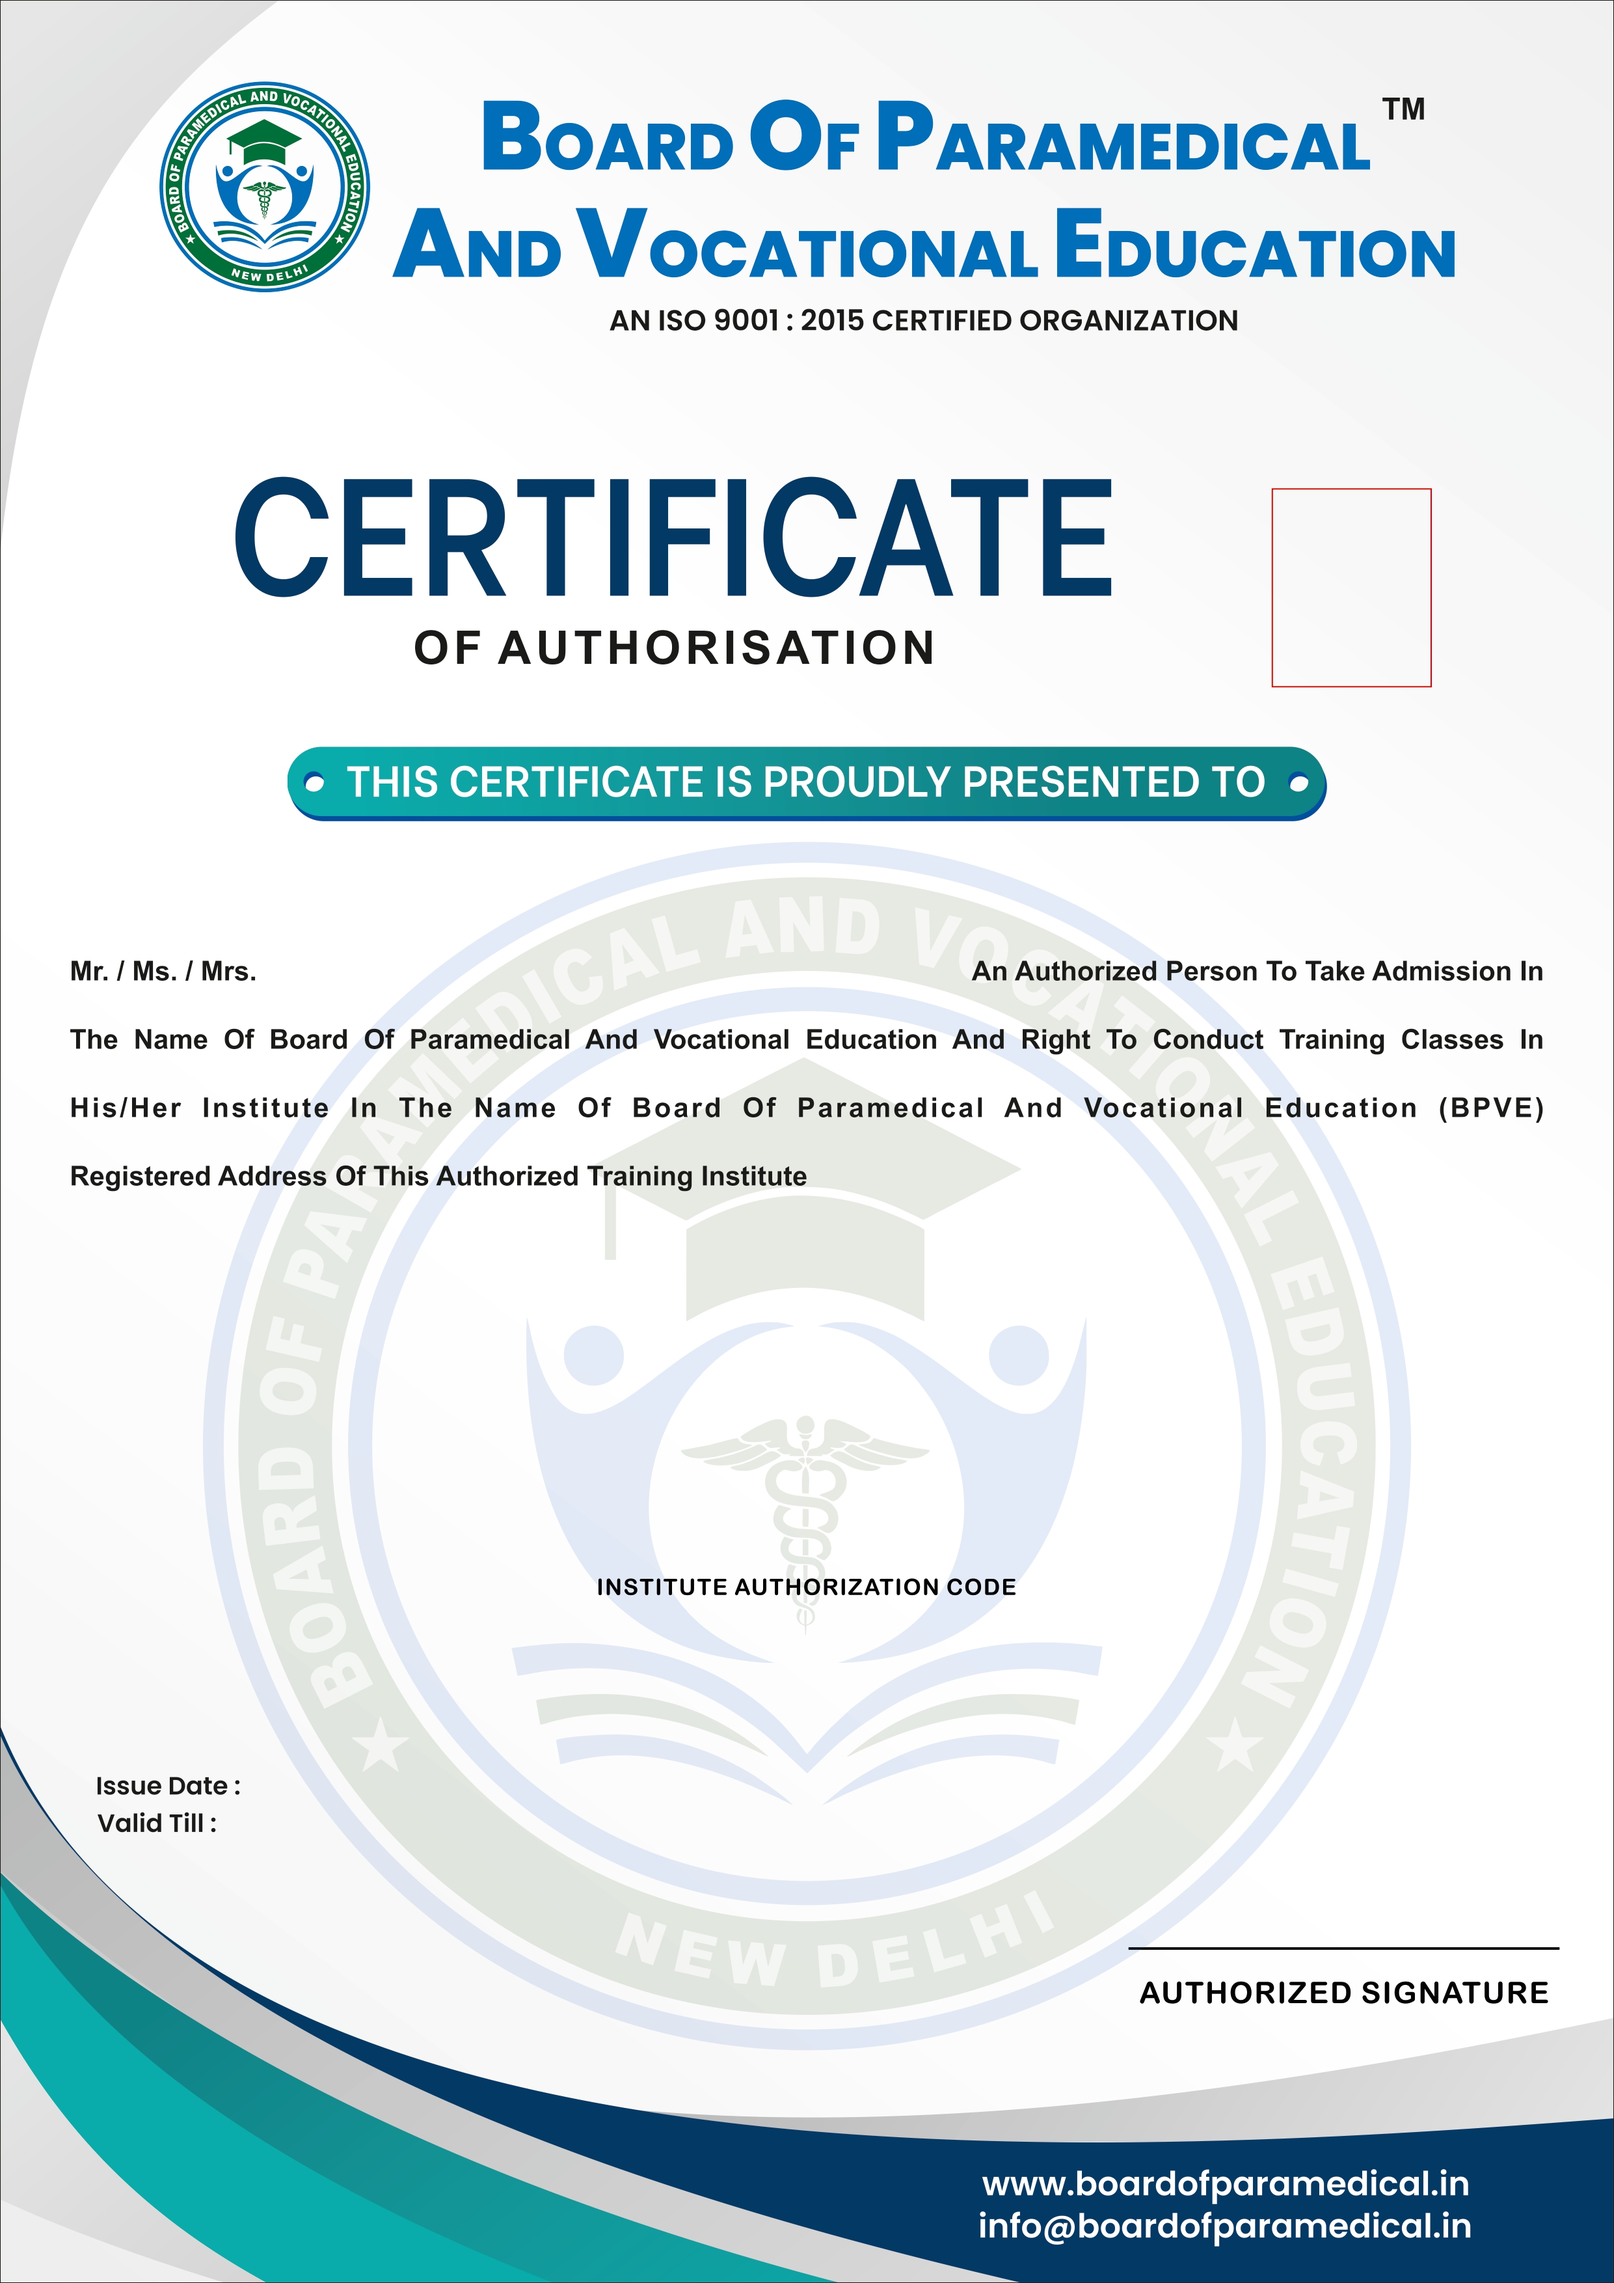
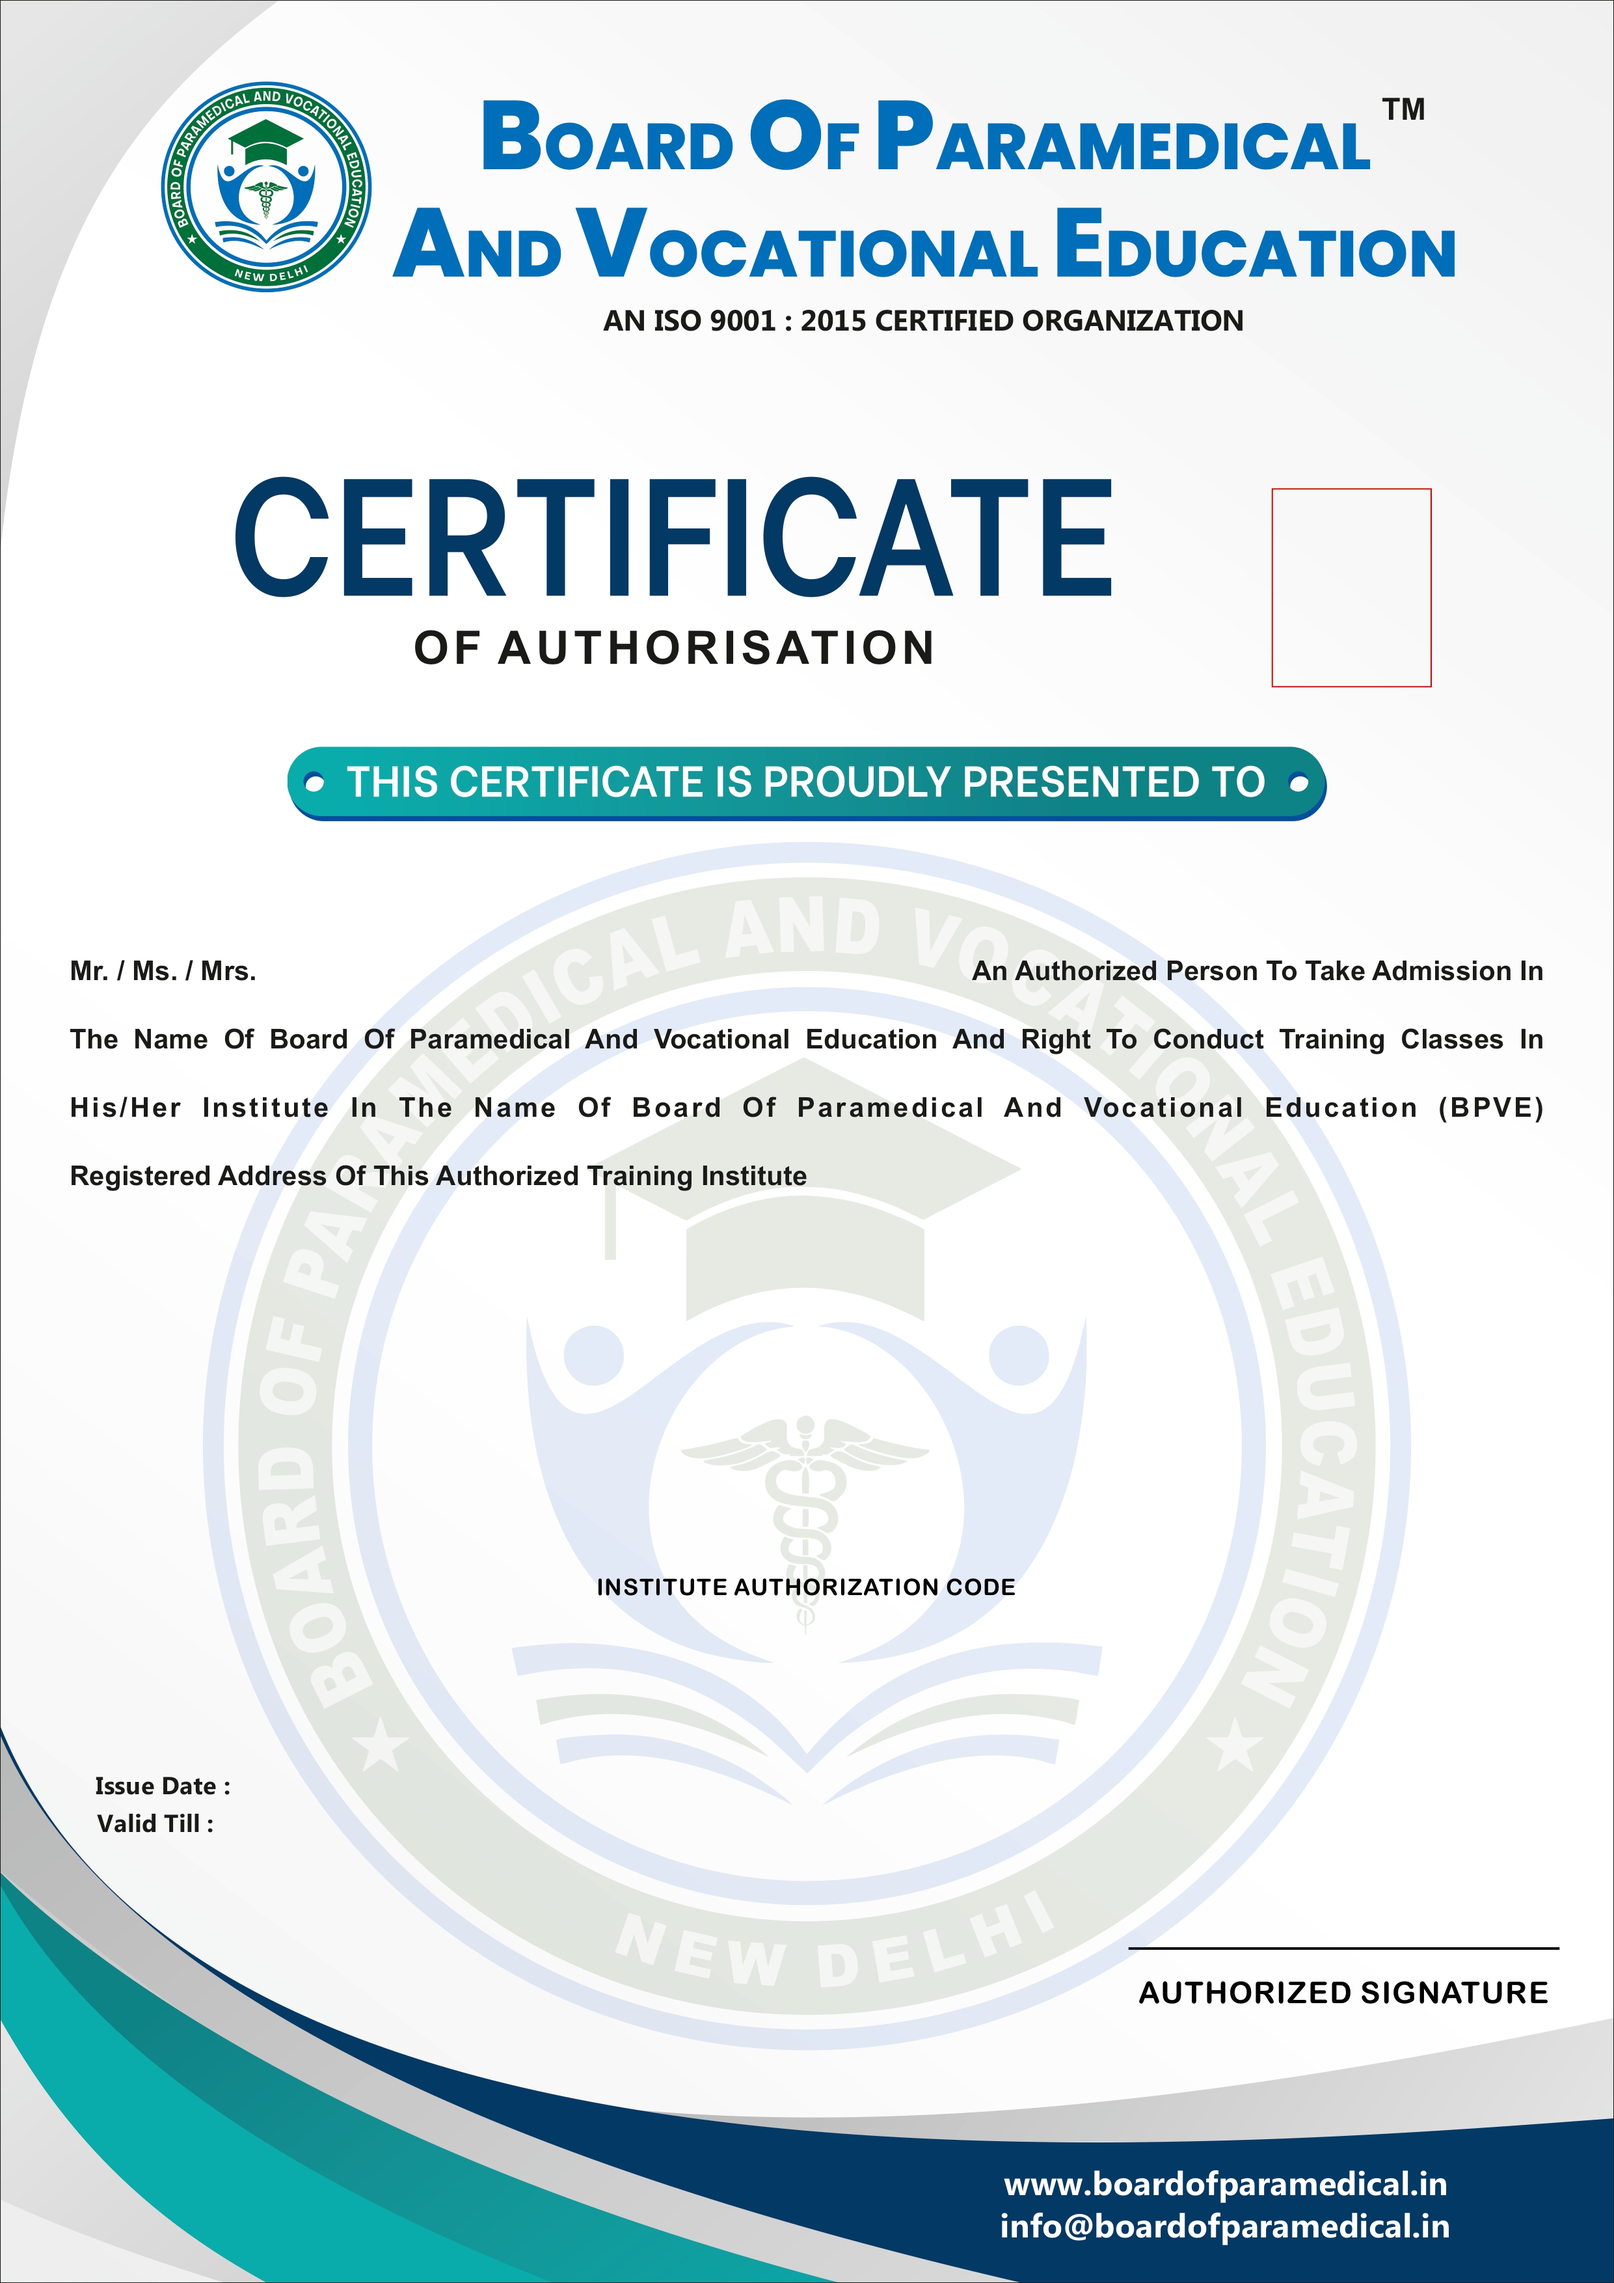
update board

diff --git a/assets/formats/boardofpara/certificate.php b/assets/formats/boardofpara/certificate.php
@@ -21,7 +21,7 @@
         .position-absolute {
             position: absolute;
             font-weight: bold;
-
+            border: 1px solid red;
         }
 
         .w-100 {
@@ -84,31 +84,31 @@
     </div>
 
 
-    <p class="position-absolute" style="top:-0.2%;left:12%;">{certiticate_id}</p>
+    <p class="position-absolute" style="top:-0.2%;left:12%;width:200px">{serial_no}</p>
     <p class="position-absolute" style="bottom:5%;left:19%;font-size:13px">{createdOn}</p>
-    <p class="position-absolute" style="bottom:3.2%;left:15%;font-size:13px">Place</p>
+    <p class="position-absolute" style="bottom:3.2%;left:15%;font-size:13px">New Delhi</p>
 
-    <p class="position-absolute text-center " style="width:230px;left:23%;top:42.2%;">{roll_no}</p>
+    <p class="position-absolute text-center " style="width:190px;left:23%;top:42.2%;">{roll_no}</p>
     <p class="position-absolute text-center " style="width:200px;left:73%;top:42.2%;">{enrollment_no}</p>
 
-    <p class="position-absolute text-center " style="width:320px;left:29%;top:46.7%;">{student_name}</p>
-    <p class="position-absolute text-center " style="width:120px;left:81%;top:46.7%;">{dob}</p>
+    <p class="position-absolute text-center " style="width:230px;left:29%;top:47.9%;">{student_name}</p>
+    <p class="position-absolute text-center " style="width:120px;left:78%;top:47.9%;">{dob}</p>
 
-    <p class="position-absolute text-center " style="width:270px;left:20%;top:51.3%;">{father_name}</p>
-    <p class="position-absolute text-center " style="width:240px;left:68%;top:51.3%;">{mother_name}</p>
+    <p class="position-absolute text-center " style="width:270px;left:20%;top:53.5%;">{father_name}</p>
+    <p class="position-absolute text-center " style="width:197px;left:74%;top:53.5%;">{mother_name}</p>
     
-    <p class="position-absolute text-center " style="width:80%;left:19%;top:55.8%;">{course_name}</p>
+    <p class="position-absolute text-center " style="width:80%;left:19%;top:59.5%;">{course_name}</p>
     
-    <p class="position-absolute text-center text-capitlize" style="width:270px;left:20%;top:60.3%;">{duration} {duration_type}</p>
-    <p class="position-absolute text-center " style="width:150px;left:60%;top:60.3%;">{from_date}</p>
-    <p class="position-absolute text-center " style="width:130px;left:82%;top:60.3%;">{to_date}</p>
+    <p class="position-absolute text-center text-capitlize" style="width:150px;left:20%;top:65.1%;"><?=humnize_duration($duration,$duration_type)?></p>
+    <p class="position-absolute text-center " style="width:100px;left:45%;top:65.1%;">{from_date}</p>
+    <p class="position-absolute text-center " style="width:130px;left:65%;top:65.1%;">{to_date}</p>
     
-    <p class="position-absolute text-center " style="width:60%;left:38%;top:65%;">{center_name}</p>
+    <p class="position-absolute text-center " style="width:60%;left:38%;top:71%;">{center_name}</p>
     
-    <p class="position-absolute text-center " style="width:180px;left:42%;top:69.7%;">{to_date}</p>
-    <p class="position-absolute text-center " style="width:150px;left:74%;top:69.7%;">A{grade}</p>
+    <!-- <p class="position-absolute text-center " style="width:180px;left:42%;top:69.7%;">{to_date}</p> -->
+    <p class="position-absolute text-center " style="width:50px;left:72%;top:76.5%;">{grade}</p>
     
-    <p class="position-absolute text-center " style="width:150px;left:23%;top:74.2%;">{percentage}%</p>
+    <p class="position-absolute text-center " style="width:50px;left:41.8%;top:76.5%;">{percentage}%</p>
 
 </body>
 

diff --git a/assets/formats/boardofpara/marksheet.php b/assets/formats/boardofpara/marksheet.php
@@ -123,15 +123,14 @@
     <p class="position-absolute" style="top:37.5%;left:34%;width:200px">{student_name}</p>
     <p class="position-absolute" style="top:37.5%;left:80%;width:150px">{roll_no}</p>
 
-    <p class="position-absolute" style="top:39.35%;left:34%;width:200px">{father_name}</p>
-    <p class="position-absolute" style="top:39.35%;left:80%;width:150px">{enrollment_no}</p>
+    <p class="position-absolute" style="top:39.75%;left:34%;width:200px">{father_name}</p>
+    <p class="position-absolute" style="top:39.75%;left:80%;width:150px">{enrollment_no}</p>
 
-    <p class="position-absolute" style="top:41.3%;left:34%;width:200px">{mother_name}</p>
-    <p class="position-absolute text-capitlize" style="top:41.3%;left:80%;width:150px">{marksheet_duration}
-        {duration_type}</p>
+    <p class="position-absolute" style="top:41.7%;left:34%;width:200px">{mother_name}</p>
+    <p class="position-absolute " style="top:41.7%;left:80%;width:150px"><?=humnize_duration_with_ordinal($marksheet_duration, $duration_type)?></p>
 
-    <p class="position-absolute " style="top:43.2%;left:34%;width:63%">{course_name}</p>
-    <p class="position-absolute " style="top:45.2%;left:34%;width:63%">{center_name}</p>
+    <p class="position-absolute " style="top:43.8%;left:34%;width:63%">{course_name}</p>
+    <p class="position-absolute " style="top:45.8%;left:34%;width:63%">{center_name}</p>
 
     <div class="position-absolute" style="z-index: 999;top: 83.8%;left: 6.1%;">
         <img src="upload/images/marksheet_{result_id}.png" style="width: 70px" alt="">

diff --git a/modules/document/controllers/Document.php b/modules/document/controllers/Document.php
@@ -431,7 +431,7 @@ class Document extends MY_Controller
             if (in_array(PATH, ['haptronworld', 'sewaedu', 'beautyguru', 'pces', 'ncvetskill', 'sct'])) {
                 $certificate['serial_no'] = (50000 + $this->id);
                 $this->mypdf->addPage('L');
-            } elseif (in_array(PATH, ['upstate'])) {
+            } elseif (in_array(PATH, ['upstate','boardofpara'])) {
                 $this->set_data('serial_no', '1' . date('Y', strtotime($certificate['createdOn'])) . '00' . $certificate['student_id']);
             }
             // $getLastExam = $this->student_model->last_marksheet($certificate['course_id']);
